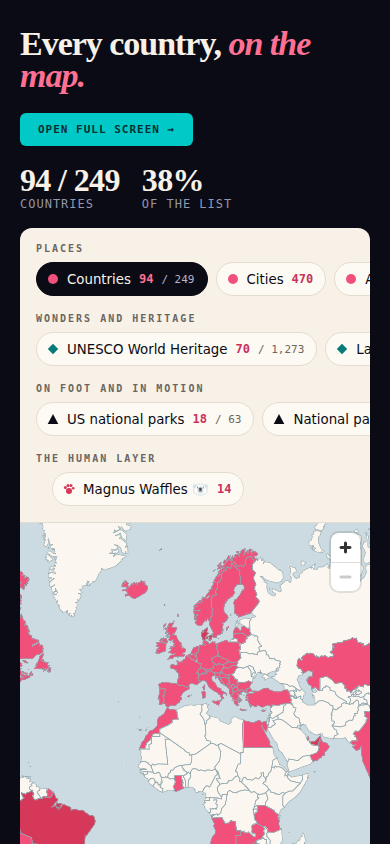
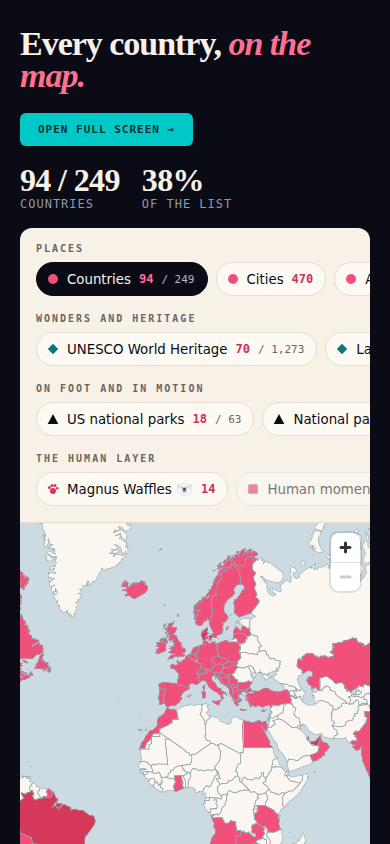
Map 2.0 phase 4: human moments, ground-covered hexagons with privacy converter, framed Strava and Polarsteps embeds
Claude-Session: https://claude.ai/code/session_01TRgXiW9sHm4kPh7GR4qgnb

Changed region(s): [[0.1231, 0.5545, 0.5846, 0.5853], [0.6154, 0.5545, 0.9538, 0.5853]]

diff --git a/map-2.0/build-heat.py b/map-2.0/build-heat.py
@@ -1,0 +1,101 @@
+#!/usr/bin/env python3
+"""Turn raw tracks into coarse hexagons for the Ground covered layer.
+
+Reads  map-2.0/source/private/tracks/*.gpx, *.csv (lat,lon columns) or *.json (Google Location History)
+       map-2.0/source/private/exclusions.json  (circles that are never published)
+Writes map-2.0/data/heat.json  (hexagon centers and a 1 to 5 bucket; never a point, never a time)
+
+Run:   python3 map-2.0/build-heat.py [--km 25]
+"""
+import os, sys, json, math, glob, csv, re, collections
+
+HERE = os.path.dirname(os.path.abspath(__file__))
+PRIV = os.path.join(HERE, 'source', 'private')
+OUT = os.path.join(HERE, 'data', 'heat.json')
+KM = 25.0
+if '--km' in sys.argv: KM = float(sys.argv[sys.argv.index('--km') + 1])
+
+def read_points():
+    pts = []
+    for f in glob.glob(os.path.join(PRIV, 'tracks', '*')):
+        ext = f.lower().rsplit('.', 1)[-1]
+        txt = open(f, encoding='utf-8', errors='ignore').read()
+        if ext == 'gpx':
+            for m in re.finditer(r'<trkpt[^>]*lat="([-\d.]+)"[^>]*lon="([-\d.]+)"', txt): pts.append((float(m.group(1)), float(m.group(2))))
+            for m in re.finditer(r'<trkpt[^>]*lon="([-\d.]+)"[^>]*lat="([-\d.]+)"', txt): pts.append((float(m.group(2)), float(m.group(1))))
+        elif ext == 'csv':
+            for r in csv.DictReader(txt.splitlines()):
+                k = {x.lower(): x for x in r}
+                la = r.get(k.get('lat') or k.get('latitude') or ''); lo = r.get(k.get('lon') or k.get('lng') or k.get('longitude') or '')
+                try: pts.append((float(la), float(lo)))
+                except (TypeError, ValueError): pass
+        elif ext == 'json':
+            j = json.loads(txt)
+            for loc in j.get('locations', []):
+                if 'latitudeE7' in loc: pts.append((loc['latitudeE7'] / 1e7, loc['longitudeE7'] / 1e7))
+    return pts
+
+def excluded(pts):
+    ex = os.path.join(PRIV, 'exclusions.json')
+    circles = json.load(open(ex)).get('circles', []) if os.path.exists(ex) else []
+    if not circles: print('WARNING: no exclusions.json; nothing is being masked', file=sys.stderr)
+    def far(p):
+        for c in circles:
+            d = haversine(p[0], p[1], c['latitude'], c['longitude'])
+            if d <= float(c.get('km', 6)): return False
+        return True
+    return [p for p in pts if far(p)], len(circles)
+
+def haversine(a1, o1, a2, o2):
+    R = 6371.0; p1, p2 = math.radians(a1), math.radians(a2); dp = p2 - p1; dl = math.radians(o2 - o1)
+    h = math.sin(dp / 2) ** 2 + math.cos(p1) * math.cos(p2) * math.sin(dl / 2) ** 2
+    return 2 * R * math.asin(math.sqrt(h))
+
+# Flat-top hexagon grid on a simple equirectangular plane scaled by latitude. Coarse by design.
+def hex_cell(lat, lng, km):
+    size = km / 2.0 / 111.32  # circumradius in degrees of latitude
+    x = lng * math.cos(math.radians(lat)); y = lat
+    q = (2.0 / 3 * x) / size; r = (-1.0 / 3 * x + math.sqrt(3) / 3 * y) / size
+    return hex_round(q, r)
+
+def hex_round(q, r):
+    x, z = q, r; y = -x - z
+    rx, ry, rz = round(x), round(y), round(z)
+    dx, dy, dz = abs(rx - x), abs(ry - y), abs(rz - z)
+    if dx > dy and dx > dz: rx = -ry - rz
+    elif dy > dz: ry = -rx - rz
+    else: rz = -rx - ry
+    return int(rx), int(rz)
+
+def cell_center(q, r, km, lat_hint):
+    size = km / 2.0 / 111.32
+    x = size * 1.5 * q; y = size * (math.sqrt(3) / 2 * q + math.sqrt(3) * r)
+    lat = y; lng = x / max(0.2, math.cos(math.radians(lat)))
+    return round(lat, 3), round(lng, 3)
+
+def main():
+    pts = read_points()
+    if not pts: print('No track files found in', os.path.join(PRIV, 'tracks')); return
+    kept, ncirc = excluded(pts)
+    cells = collections.Counter()
+    for la, lo in kept:
+        if abs(la) > 85: continue
+        cells[hex_cell(la, lo, KM)] += 1
+    # buckets by quantile so the map shows relative coverage, not raw counts
+    vals = sorted(cells.values()); n = len(vals)
+    def bucket(v):
+        if n == 0: return 1
+        rank = vals.index(v) / max(1, n - 1)
+        return 1 + min(4, int(rank * 5))
+    rows = []
+    for (q, r), v in cells.items():
+        la, lo = cell_center(q, r, KM, 0)
+        rows.append({'latitude': la, 'longitude': lo, 'bucket': bucket(v)})
+    rows.sort(key=lambda d: (d['latitude'], d['longitude']))
+    json.dump({'collection': 'heat', 'count': len(rows), 'cell_km': KM, 'generated': 'build-heat.py',
+               '_about': 'Coarse hexagons from private tracks. Center and a 1 to 5 bucket only.', 'rows': rows},
+              open(OUT, 'w', encoding='utf-8'), indent=1)
+    print('points read %d, kept after %d exclusion circle(s) %d, hexagons written %d (%.0f km)' % (len(pts), ncirc, len(kept), len(rows), KM))
+
+if __name__ == '__main__':
+    main()

diff --git a/map-2.0/build-data.py b/map-2.0/build-data.py
@@ -151,7 +151,14 @@ def main():
     layers['magnus'] = mag
 
     os.makedirs(OUT, exist_ok=True)
+    # Hand-kept and separately built files (moments, heat) are never rewritten here; their counts are read back.
+    own = {c for c in COLL if COLL[c].get('source') in ('hand', 'build-heat.py')}
     for c in COLL:
+        if c in own:
+            fp = os.path.join(OUT, c + '.json')
+            try: layers[c] = json.load(open(fp, encoding='utf-8')).get('rows', [])
+            except (OSError, ValueError): layers[c] = []
+            continue
         data = layers.get(c, [])
         data.sort(key=lambda d: (d['country'], d['name']))
         json.dump({'collection': c, 'count': len(data), 'generated_from': 'places_been_export.csv', 'rows': data},

diff --git a/handoff/STATUS.md b/handoff/STATUS.md
@@ -48,7 +48,7 @@ Summary: TODO 22 · Done 1 · Partial 105 · Blocked 17 · N/A 2 · Deferred 0
 | B19 | My pets (+ Pack request) | Partial | Staged 29 Sep 2026, not published (awaiting Nancy's go). Per screen 19: eyebrow and H1 "Your pets.", lede "Each pet gets its own public passport page" plus the three things it holds, buttons "+ Register a pet" / "Register another pet" / "Register →", form eyebrow "New pet · Registration", button "Create passport →", status line. The static Magnus card with hardcoded numbers (4 yrs, 45 kg, 22 countries, 12 cities, 3 stories) is hidden (visibility false): the pet editor v1.1 already renders each member's pets from their Memberstack JSON with computed age and country counts, so nothing stale shows. New fieldset in the add-pet form per the design: countries crossed together (datalist of country names) and their own accounts (Instagram, TikTok, Strava); a small head script (tll-pet-extras-v1) carries those into the pet record the editor saves, without touching the editor or any existing input name. Own success/error copy was already in place. Kept against the design: the row meta stays breed · age · weight · countries (computed) rather than SINCE year, because no first-trip date is captured. Not built: Pack request (needs the Pack Links collection, H03, not created yet) and SHOWN/HIDDEN toggles per account (the editor's Edit panel exposes the handles; a visibility switch per link needs a data field first). |
 | B20 | Public Paw Passport (+ The Pack) | Partial | Staged 29 Sep 2026, not published (awaiting Nancy's go). The template carried Magnus-only hardcoded text that would have shown on every pet's page. Fixed: species and breed now bound to the Pets fields (Pet type, Breed), home base and travel companion bound to the owner's Location and Name through the Owner reference, the humans block bound to the owner's name and short bio with eyebrow SUPERVISED BY and a generic link label (the owner link resolves at runtime from the /travelers cards, since owner slug is not bindable); hardcoded badges (EU passport stamped, Microchipped, Rabies current) and the Chip on file fact hidden (no data behind them, and the word is banned outside the Paw guide); the Balkans story card is tagged Magnus-only and removed by script on any other pet's page. Per screen 20: eyebrows COUNTRIES CROSSED and STORIES FEATURING THIS PET, new Follow section with an honest empty state (no pet link fields exist in the CMS), share row with the passport URL and a Share button (Web Share, clipboard fallback), guide link fixed to /the-paw-passport, stories placeholder copy rewritten. Kept against the design: the three stat tiles (years roaming, continents) are not built because no first-trip date or continent field exists; the existing countries chips and count stay. Not built: The Pack (needs the Pack Links collection, on Nancy's list). |
 | B21 | Pets index | Partial | Staged 29 Sep 2026, not published (awaiting Nancy's go). Per screen 21: eyebrow PETS WE TRAVEL WITH, H1 "The Paw Passport crew.", lede "One Samoyed on the roster so far. Honest count, growing slowly.", roster H2 "One supervisor so far.", Magnus card meta SAMOYED · COPENHAGEN with the country count read at runtime from his passport page (the typed 22 is gone; the CMS says 13), button "Passport →", open slot card "Awaiting a first trip", new "Add your bestie" card to /my-pets. The invented "0 GOATS ACKNOWLEDGED" stat is hidden; "N PETS ON THE ROSTER" and "N COUNTRIES SUPERVISED" are computed by script (tll-px-counts-v1). Kept: the roster is still a static card, not a CMS list; when a second pet goes public the page needs a Collection List bound to Pets with Is public on (ask Nancy before restructuring). |
-| B22 | The Map (chrome only, engine untouched) | Partial | 7 Oct 2026: Map 2.0 build under way in map-2.0/ (Nancy's brief, 7 Oct). Phase 1 data done and decided (94 countries incl. territories and Kosovo, Zion a park, UNESCO 70 with 18 to confirm). Phase 2 built and tested offline: MapLibre canvas, five-shelf switcher, clustering, cards, keyboard pin list, fullscreen, counters from data; see map-2.0/PHASE-2-NOTES.md. Phase 3 built and tested offline: collection cards, depth of visit from the member record (5 lived, 78 stayed, 2 layover), sets of seven stamps, lines and extremes strip, Magnus 🐻❄ layer (14); see map-2.0/PHASE-3-NOTES.md. Nothing pasted into Webflow yet. Earlier: staged 29 Sep 2026, not published (awaiting Nancy's go). Chrome only, per screen 22: eyebrow "THE MAP · THE LIFER CHASE, VISUALIZED", H1 already matched, new OPEN FULL SCREEN link in the hero that puts the map canvas into browser full screen (falls back to scrolling to the map); handler lives in an embed inside the map section, the head and footer engine scripts were not touched. The typed counter defaults (87 / 195, 45%) replaced with dashes so no invented number shows before the engine writes the real count. Left alone: the old inline legend block (Lived / visited · Layover only · Magnus was here) below the map, which the engine's own legend supersedes; hiding it means editing a section I have not mapped fully, so it is noted for the A-rules sweep. PUBLISHED 6 Oct 2026 (fourth publish, task 7688695f) to www.thatlayover.life, thatlayover.life and the Webflow subdomain; live check still owed because this container cannot fetch the site (check with ?v=20261006a). v9.1 fix 10 (approved, published 6 Oct 2026): pin clustering embed 89bf7e91-a1ad-8344-1c7c-8f3d11b0a9e6 at the end of main; pins within 32px become one teal group pin with a mono count, 44px hit areas, aria-labels, a story list on activation; engine untouched. Live check owed on the Balkans at 390 wide. 6 Oct 2026 later (Nancy: "That looks weird", screenshot of the Italy group listing seven "a story" rows): the dots on the live map are passport pins, one group per logged country, not story pins, so v1 of the cluster script had nothing to name. v2 (src/site-layers/v9-1/10-map-clusters-v1.html, script id tll-v91-map-clusters-v2, written into the map embed 89bf7e91) groups per country, labels the badge "N countries here: ...", and the list shows country names with each traveler's state from the engine's own tllStates record (fixture: reports/evidence/v9-1/v91-clusters-v2-countries.png). Single countries keep the engine's dots. Published (tenth publish). |
+| B22 | The Map (chrome only, engine untouched) | Partial | 7 Oct 2026: Map 2.0 build under way in map-2.0/ (Nancy's brief, 7 Oct). Phase 1 data done and decided (94 countries incl. territories and Kosovo, Zion a park, UNESCO 70 with 18 to confirm). Phase 2 built and tested offline: MapLibre canvas, five-shelf switcher, clustering, cards, keyboard pin list, fullscreen, counters from data; see map-2.0/PHASE-2-NOTES.md. Phase 3 built and tested offline: collection cards, depth of visit from the member record (5 lived, 78 stayed, 2 layover), sets of seven stamps, lines and extremes strip, Magnus 🐻❄ layer (14); see map-2.0/PHASE-3-NOTES.md. Phase 4 built and tested with sample data: human moments (hand file), ground-covered hexagons with a privacy-masking converter and a gitignored private folder, framed Strava and Polarsteps embeds in placeholder state; see map-2.0/PHASE-4-NOTES.md. All four phases done; waiting on Nancy for the design file, moments, tracks, embed ids and the Webflow paste. Nothing pasted into Webflow yet. Earlier: staged 29 Sep 2026, not published (awaiting Nancy's go). Chrome only, per screen 22: eyebrow "THE MAP · THE LIFER CHASE, VISUALIZED", H1 already matched, new OPEN FULL SCREEN link in the hero that puts the map canvas into browser full screen (falls back to scrolling to the map); handler lives in an embed inside the map section, the head and footer engine scripts were not touched. The typed counter defaults (87 / 195, 45%) replaced with dashes so no invented number shows before the engine writes the real count. Left alone: the old inline legend block (Lived / visited · Layover only · Magnus was here) below the map, which the engine's own legend supersedes; hiding it means editing a section I have not mapped fully, so it is noted for the A-rules sweep. PUBLISHED 6 Oct 2026 (fourth publish, task 7688695f) to www.thatlayover.life, thatlayover.life and the Webflow subdomain; live check still owed because this container cannot fetch the site (check with ?v=20261006a). v9.1 fix 10 (approved, published 6 Oct 2026): pin clustering embed 89bf7e91-a1ad-8344-1c7c-8f3d11b0a9e6 at the end of main; pins within 32px become one teal group pin with a mono count, 44px hit areas, aria-labels, a story list on activation; engine untouched. Live check owed on the Balkans at 390 wide. 6 Oct 2026 later (Nancy: "That looks weird", screenshot of the Italy group listing seven "a story" rows): the dots on the live map are passport pins, one group per logged country, not story pins, so v1 of the cluster script had nothing to name. v2 (src/site-layers/v9-1/10-map-clusters-v1.html, script id tll-v91-map-clusters-v2, written into the map embed 89bf7e91) groups per country, labels the badge "N countries here: ...", and the list shows country names with each traveler's state from the engine's own tllStates record (fixture: reports/evidence/v9-1/v91-clusters-v2-countries.png). Single countries keep the engine's dots. Published (tenth publish). |
 | B23 | Editorial charter (+ rule 08 DRAFT) | Partial | Staged 29 Sep 2026, not published (awaiting Nancy's go). Per screen 23: eyebrow THE EDITORIAL CHARTER, H1 "Eight rules. No exceptions.", lede naming where the charter is linked from; rule VIII "Paid work never buys a verdict." added to the list with an amber DRAFT · EDITOR TO APPROVE tag; new section RULE 08 IN FULL (A Who pays whom, B What they get, C What they never get, D When paid work touches a story, E The kill switch, F The public list with "CLIENTS SO FAR: NONE. THIS LINE UPDATES THE DAY THAT CHANGES."), closing line and mailto link. Copy taken from the prototype with "doesn't" expanded and no em dashes. Stale href attribute on the Share button removed. Needs Nancy: approve the rule 08 wording, then the DRAFT tag comes off. |
 | B24 | Community guidelines | Partial | Staged 29 Sep 2026, not published (awaiting Nancy's go). Per screen 24: eyebrow COMMUNITY GUIDELINES, H1 "Five house rules, enforced by a human.", lede "Short on purpose. If a rule needs a lawyer to read it, it is a bad rule." The five rules now match the prototype's set: Your own photos and words; Real places, real dates; Zero tolerance for harassment; Disclose commercial ties (charter link kept); Photo subjects said yes (new, replaces the old "We remove what breaks these" whose enforcement sentence and mailto link now close rule five). Stale href attribute on the Share button removed. Kept: the roman numeral list style instead of the prototype's emoji icons (no generic icons per the kit). |
 | B25 | Privacy + Terms | Partial | Staged 29 Sep 2026, not published (awaiting Nancy's go). Chrome only, per screen 25: PRIVACY / TERMS / COOKIES tab switcher above both heroes (active tab rose), H1s "Privacy policy." and "Terms of service.". Kept against the design: the effective and last-updated lines stay at 20 May 2026 (the prototype's "last reviewed 22 August 2026 · governed by Danish law" is not something I can verify), and the legal body text was not rewritten: the live pages are full documents and the prototype has short summaries; legal wording is Nancy's call. |

diff --git a/map-2.0/PHASE-4-NOTES.md b/map-2.0/PHASE-4-NOTES.md
@@ -1,0 +1,34 @@
+# The Map 2.0, Phase 4: optional layers
+
+Date: 7 October 2026. All three pieces are wired and tested with sample data that was never written to the repo. The live files are empty until you supply the inputs, and every empty piece shows a marked placeholder instead of an invented number.
+
+## 1. Human moments
+
+- A new collection on The human layer: square pins, verb "happened", one line of text each.
+- Data: `data/moments.json`, kept by hand. It holds an `_example` row to copy. `build-data.py` never rewrites it.
+- The chip stays greyed out while the file has no rows. Add a row, push, update the embed hash, and the chip wakes up with the count.
+
+## 2. Ground covered (the heat layer)
+
+- A new collection on On foot and in motion: flat-top hexagons about 25 km across, kraft colored, opacity by a 1 to 5 bucket. Hover names the bucket in words (once, a few times, often, very often, home turf). No raw lines or points are ever drawn or shipped.
+- Converter: `build-heat.py`. It reads GPX, CSV or Google Location History files from `source/private/tracks/`, drops every point inside the circles in `source/private/exclusions.json`, bins the rest into hexagons and writes only cell centers and buckets to `data/heat.json`.
+- Privacy: `source/private/` is in `.gitignore` (only its README is tracked), so tracks and the exclusion circles never reach GitHub or jsDelivr. Checked with a synthetic track that looped around a fake home point inside a 6 km exclusion circle: 300 of 500 points dropped, no hexagon near that point, and the output file carries only latitude, longitude and bucket.
+- To feed it: put your exports in `source/private/tracks/`, write `exclusions.json` with a circle over Copenhagen SV (6 km is a safe default), run `python3 map-2.0/build-heat.py`, read its one-line summary, commit `data/heat.json` only.
+
+## 3. Framed Strava and Polarsteps embeds
+
+- An "In motion" section with two brand frames: label row (source, your caption) and the official embed inside. Both frames read from `collections.json` under `embeds`.
+- Strava: paste the activity id (digits from the activity URL) into `strava_activity_id`. The page then loads Strava's own embed script, which is the official, keyless way. Only an activity you have set to public will render.
+- Polarsteps: open the trip, Share, Embed, copy the iframe `src` into `src`. Only `https://www.polarsteps.com/...` addresses are accepted; anything else shows the placeholder.
+- Until filled, each frame shows a striped placeholder with the instruction. No tokens, keys or feeds anywhere in the page code.
+
+## Numbers added to the page
+
+| Number | Source |
+|---|---|
+| Human moments count | rows in `data/moments.json` (0 today) |
+| Ground covered count | hexagons in `data/heat.json` (0 today); the card says "hexagons covered" so the unit is plain |
+
+## Checked
+
+Offline at 1440 and 390 with sample heat and moment rows served only to the test: both chips switch on and off with the right counts, hexagons draw and hover, moment pins open their card, both empty frames render; then again without sample data: every real count unchanged, the two new chips disabled, frames in placeholder state. Screenshots: `*-heat-sample-data.png` (sample data, labeled as such) and `*-frames.png`. Not checked: a live Strava or Polarsteps embed, since neither id is filled.

diff --git a/map-2.0/GUIDE.md b/map-2.0/GUIDE.md
@@ -6,7 +6,7 @@ Everything the map shows comes from the files in `map-2.0/`. No code changes nee
 
 1. Open `data/<collection>.json` (for example `data/landmarks.json`).
 2. Copy any row and change the fields: name, latitude, longitude, country (two-letter code), year, note (one line), link (a story URL or an official page). Leave `verb` as it is; the collection sets it.
-3. Run `python3 map-2.0/build-data.py` only if the pin came from a Places Been export. For a hand-added pin, instead add it to `overrides.json` under `extra_rows` so the next export does not wipe it. (Phase 3 adds that section.)
+3. If the pin came from a Places Been export, run `python3 map-2.0/build-data.py` instead of editing by hand. A hand-added pin in an export-built file is wiped by the next export, so for hand pins use `data/moments.json` (kept by hand) or ask for an `extra_rows` section in `overrides.json`.
 4. Commit, push, and update the commit hash in the Webflow embed.
 
 ## Add a whole new collection
@@ -22,9 +22,24 @@ Everything the map shows comes from the files in `map-2.0/`. No code changes nee
 2. Run `python3 map-2.0/build-data.py`. It rewrites every data file and `counts.json`, re-applies `overrides.json`, and prints the checks (duplicates, same place in two layers, wishlist rows).
 3. Read `data/_report.json` for anything flagged. Commit, push, update the hash.
 
-## Refresh from Strava or a flight log
+## Refresh the Ground covered layer from Strava, Garmin or Google tracks
 
-Not wired yet (Phase 4). The rule stays: tracks and photo points become coarse hexagons or city-level counts before they go anywhere near a published file. Nothing near Copenhagen SV is ever included.
+1. Put the export files in `map-2.0/source/private/tracks/` (GPX, CSV with lat and lon columns, or Google Location History JSON). This folder never goes to GitHub.
+2. Make sure `map-2.0/source/private/exclusions.json` has a circle over home (see the README in that folder). 6 km is a safe default.
+3. Run `python3 map-2.0/build-heat.py`. It prints one line: points read, points kept, hexagons written. Only `data/heat.json` changes, and it holds hexagon centers and a 1 to 5 bucket, nothing else.
+4. Commit `data/heat.json`, push, update the hash.
+
+## Add a human moment
+
+Open `data/moments.json`, copy the `_example` row into `rows`, fill name, latitude, longitude, country and the one-line note. Commit, push, update the hash. The chip turns on by itself once there is a row.
+
+## Fill the Strava and Polarsteps frames
+
+In `collections.json` under `embeds`, paste the Strava activity id (digits only) or the Polarsteps iframe src. Past trips only. Commit, push, update the hash.
+
+## A flight log
+
+Not a layer yet. Airports already come from Places Been. If you want routes drawn between them, that is a new collection and a new conversation: lines on a map are the one thing the privacy rules watch most closely.
 
 ## Change a verb, a denominator or an "as of" date
 

diff --git a/map-2.0/source/private/README.md b/map-2.0/source/private/README.md
@@ -1,0 +1,12 @@
+# Private inputs (never committed)
+
+Everything in this folder except this README is ignored by git. Put here:
+
+- `tracks/` : Strava GPX exports, Garmin or Apple Health exports, Google Location History JSON. Raw points. They never leave your computer.
+- `exclusions.json` : places that must never appear, as circles. Example:
+
+```json
+{ "circles": [ { "name": "home", "latitude": 0, "longitude": 0, "km": 6 } ] }
+```
+
+Run `python3 map-2.0/build-heat.py`. It writes only `map-2.0/data/heat.json`: coarse hexagons with a 1 to 5 bucket, nothing else. Check the printed summary, then commit `data/heat.json` alone.

diff --git a/map-2.0/README.md b/map-2.0/README.md
@@ -5,6 +5,6 @@ Layered travel map for /the-map on thatlayover.life. Built in phases; each phase
 - Phase 1 (data): `collections.json`, `data/`, `build-data.py`, `PHASE-1-REPORT.md`. Done, awaiting review.
 - Phase 2 (map and layer switcher): done, see `PHASE-2-NOTES.md`.
 - Phase 3 (counted pieces): done, see `PHASE-3-NOTES.md`.
-- Phase 4 (optional layers): not started.
+- Phase 4 (optional layers): done, see `PHASE-4-NOTES.md`. Inputs still to come from Nancy: moments, tracks, embed ids.
 
 Current live engine: see `CURRENT-EMBED.md`.
